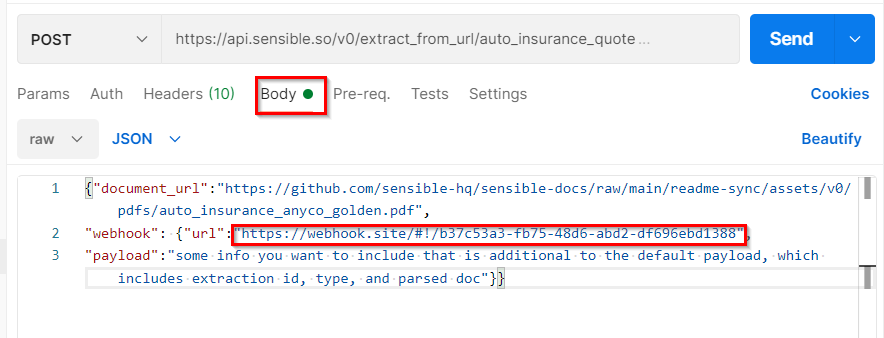
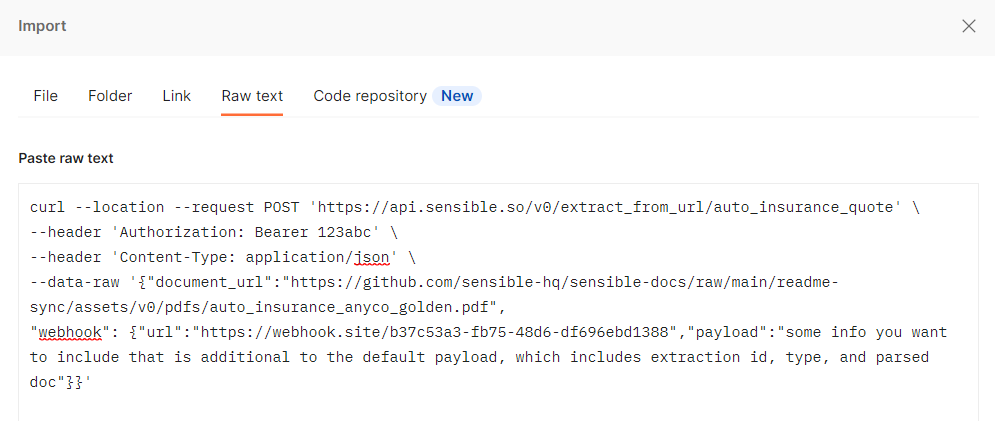
webhook simplified

diff --git a/readme-sync/v0/api/1000 - api-tutorial/3000 - api-tutorial-webhook.md b/readme-sync/v0/api/1000 - api-tutorial/3000 - api-tutorial-webhook.md
@@ -10,7 +10,7 @@ For this tutorial, let's try a webhook in combination with the `/extract_from_ur
 Prerequisites
 ====
 
-Set up a working asynchronous request. For this example, follow the steps in [Extract from a URL you provide](doc:api-tutorial-async#extract-from-a-url-you-provide ) to create an `/extract_from_url/` request in Postman.
+See [prerequisites](doc:api-tutorial#prerequisites). 
 
 
 Configure the webhook
@@ -24,19 +24,25 @@ Configure the webhook
 2. Copy the following code sample, and replace `YOUR_UNIQUE_URL` with your uniquely generated webhook.site URL:
 
 ```json
-{"document_url":"https://github.com/sensible-hq/sensible-docs/raw/main/readme-sync/assets/v0/pdfs/auto_insurance_anyco_golden.pdf",
-"webhook": {"url":"YOUR_UNIQUE_URL","payload":"some info you want to include that is additional to the default payload, which includes extraction id, type, and parsed doc"}}
+curl --location --request POST 'https://api.sensible.so/v0/extract_from_url/auto_insurance_quote' \
+--header 'Authorization: Bearer YOUR_API_TOKEN' \
+--header 'Content-Type: application/json' \
+--data-raw '{"document_url":"https://github.com/sensible-hq/sensible-docs/raw/main/readme-sync/assets/v0/pdfs/auto_insurance_anyco_golden.pdf",
+"webhook": {"url":"YOUR_WEBHOOK_URL","payload":"some info you want to include that is additional to the default payload, which includes extraction id, type, and parsed doc"}}'
 ```
 
-3. In your `/extract_from_url` request in Postman, replace the content of  the **Body** tab with the preceding code sample:
+3. Import the code sample into Postman: in your workspace, click **Import**, paste the code sample, and follow the prompts to import.
+
+   
 
 ![Click to enlarge](https://raw.githubusercontent.com/sensible-hq/sensible-docs/main/readme-sync/assets/v0/images/final/api_quickstart_webhook_2.png)
+
+4. Click **Send** in Postman.
 
 Check the webhook response
 ====
 
-5. Click **Send** in Postman.
-6. Visit your unique URL at webhook.site to verify there is a response at the URL like the following: 
+Visit your unique URL at webhook.site to verify there is a response at the URL like the following: 
 
 ```
 {

diff --git a/readme-sync/v0/api/1000 - api-tutorial/ref-api-tutorial-source.md b/readme-sync/v0/api/1000 - api-tutorial/ref-api-tutorial-source.md
@@ -80,7 +80,10 @@ WEBHOOK
 ![Click to enlarge](https://raw.githubusercontent.com/sensible-hq/sensible-docs/main/readme-sync/assets/v0/images/source/api_quickstart_webhook_2.png)
 
 ```json
-{"document_url":"https://github.com/sensible-hq/sensible-docs/raw/main/readme-sync/assets/v0/pdfs/auto_insurance_anyco_golden.pdf",
-"webhook": {"url":"https://webhook.site/b37c53a3-fb75-48d6-df696ebd1388","payload":"some info you want to include that is additional to the default payload, which includes extraction id, type, and parsed doc"}}
+curl --location --request POST 'https://api.sensible.so/v0/extract_from_url/auto_insurance_quote' \
+--header 'Authorization: Bearer 123abc' \
+--header 'Content-Type: application/json' \
+--data-raw '{"document_url":"https://github.com/sensible-hq/sensible-docs/raw/main/readme-sync/assets/v0/pdfs/auto_insurance_anyco_golden.pdf",
+"webhook": {"url":"https://webhook.site/b37c53a3-fb75-48d6-df696ebd1388","payload":"some info you want to include that is additional to the default payload, which includes extraction id, type, and parsed doc"}}'
 ```
 
